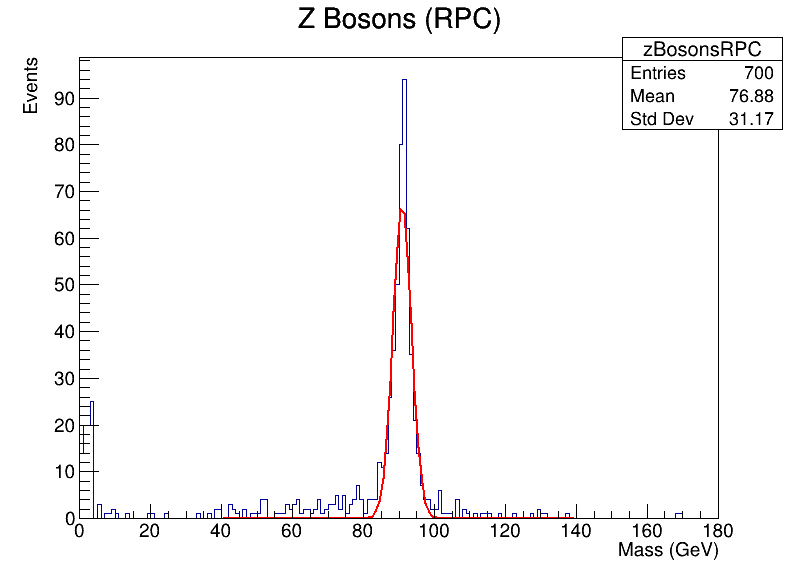
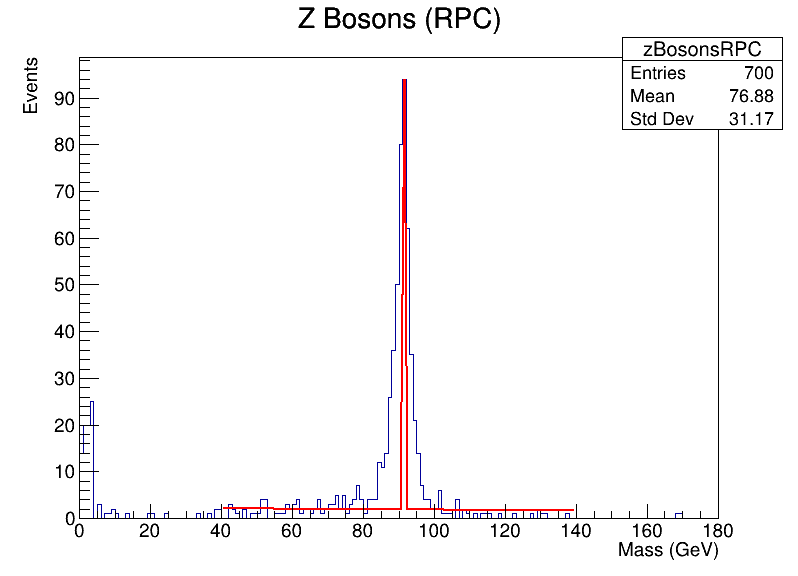
hist add exp

Changed region(s): [[0.2707, 0.1562, 0.7218, 0.9062]]

diff --git a/Analysis/drawHistograms.C b/Analysis/drawHistograms.C
@@ -7,7 +7,7 @@
 #include "TCanvas.h"
 
 void drawHistograms() {
-    TFile *file = new TFile("data.root", "READ");
+    TFile *file = new TFile("data1.root", "READ");
     if (!file || file->IsZombie()) {
         std::cerr << "Error opening file" << std::endl;
         return;
@@ -50,24 +50,46 @@ void drawHistograms() {
 
     TCanvas *c1 = new TCanvas("c1", "Histograms", 800, 600);
     h_zBosonsGlobal->Draw();
-    TF1 *fitFuncGlobal = new TF1("fitFuncGlobal", "gaus", 40, 140);
+    TF1 *fitFuncGlobal = new TF1("fitFuncGlobal", "gaus(0) + [3]*exp(-[4]*x)", 40, 140);
+    
+    // Set parameter limits for Global fit
+    fitFuncGlobal->SetParLimits(0, 0, 1000);  // Gaussian amplitude
+    fitFuncGlobal->SetParLimits(1, 80, 100);  // Gaussian mean
+    fitFuncGlobal->SetParLimits(2, 0, 5);    // Gaussian sigma
+    fitFuncGlobal->SetParLimits(3, 0, 1000);  // Exponential amplitude
+    fitFuncGlobal->SetParLimits(4, 0, 1);     // Exponential decay constant
+    
     h_zBosonsGlobal->Fit(fitFuncGlobal, "R");
     c1->SaveAs("zBosonsGlobal.png");
 
     TCanvas *c2 = new TCanvas("c2", "Histograms", 800, 600);
     h_zBosonsRPC->Draw();
-    TF1 *fitFuncRPC = new TF1("fitFuncRPC", "gaus", 40, 140);
+    TF1 *fitFuncRPC = new TF1("fitFuncRPC", "gaus(0) + [3]*exp(-[4]*x)", 40, 140);
+    
+    // Set parameter limits for RPC fit
+    fitFuncRPC->SetParLimits(0, 0, 1000);  // Gaussian amplitude
+    fitFuncRPC->SetParLimits(1, 80, 100);  // Gaussian mean
+    fitFuncRPC->SetParLimits(2, 0, 5);    // Gaussian sigma
+    fitFuncRPC->SetParLimits(3, 0, 1000);  // Exponential amplitude
+    fitFuncRPC->SetParLimits(4, 0, 1);     // Exponential decay constant
+    
     h_zBosonsRPC->Fit(fitFuncRPC, "R");
     c2->SaveAs("zBosonsRPC.png");
 
     std::ofstream logFile("fit_results.txt");
     if (logFile.is_open()) {
         logFile << "Global Fit Parameters:\n"
-                << "Mean: " << fitFuncGlobal->GetParameter(1) << "\n"
-                << "Width: " << fitFuncGlobal->GetParameter(2) << "\n";
+                << "Gaussian Amplitude: " << fitFuncGlobal->GetParameter(0) << "\n"
+                << "Gaussian Mean: " << fitFuncGlobal->GetParameter(1) << "\n"
+                << "Gaussian Sigma: " << fitFuncGlobal->GetParameter(2) << "\n"
+                << "Exponential Amplitude: " << fitFuncGlobal->GetParameter(3) << "\n"
+                << "Exponential Decay: " << fitFuncGlobal->GetParameter(4) << "\n";
         logFile << "RPC Fit Parameters:\n"
-                << "Mean: " << fitFuncRPC->GetParameter(1) << "\n"
-                << "Width: " << fitFuncRPC->GetParameter(2) << "\n";
+                << "Gaussian Amplitude: " << fitFuncRPC->GetParameter(0) << "\n"
+                << "Gaussian Mean: " << fitFuncRPC->GetParameter(1) << "\n"
+                << "Gaussian Sigma: " << fitFuncRPC->GetParameter(2) << "\n"
+                << "Exponential Amplitude: " << fitFuncRPC->GetParameter(3) << "\n"
+                << "Exponential Decay: " << fitFuncRPC->GetParameter(4) << "\n";
         logFile.close();
     } else {
         std::cerr << "Unable to open log file for writing fit results." << std::endl;

diff --git a/Analysis/plugins/Analysis.cc b/Analysis/plugins/Analysis.cc
@@ -28,11 +28,15 @@ private:
   mutable TFile* outputFile;
   mutable TTree* treeGlobal;
   mutable TTree* treeRPC;
+  mutable TTree* treenotRPC;
   
   mutable std::vector<reco::Muon> globalMuons; //isglobal
   mutable std::vector<reco::Muon> rpcMuons;    //isglobal & isRPC
+  mutable std::vector<reco::Muon> notrpcMuons; //isglobal & notRPC
+  
   mutable double zBosonMassGlobal;
   mutable double zBosonMassRPC;
+  mutable double zBosonMassnotRPC;
 };
 
 Analysis::Analysis(const edm::ParameterSet& iConfig)
@@ -58,6 +62,9 @@ void Analysis::analyze(const edm::StreamID, const edm::Event& iEvent, const edm:
       globalMuons.push_back(muon);
       if (muon.isRPCMuon()) {
         rpcMuons.push_back(muon);
+      }
+      else{
+        notrpcMuons.push_back(muon); //add not rpc muons
       }
     }
   }
@@ -86,6 +93,7 @@ void Analysis::analyze(const edm::StreamID, const edm::Event& iEvent, const edm:
 
   zBosonMassGlobal = reconstructZBoson(globalMuons);
   zBosonMassRPC = reconstructZBoson(rpcMuons);
+  zBosonMassnotRPC = reconstructZBoson(notrpcMuons);
 
   if (zBosonMassGlobal > 0.0) {
     treeGlobal->Fill();
@@ -94,20 +102,27 @@ void Analysis::analyze(const edm::StreamID, const edm::Event& iEvent, const edm:
   if (zBosonMassRPC > 0.0) {
     treeRPC->Fill();
   }
+  
+  if (zBosonMassnotRPC > 0.0) {
+    treenotRPC->Fill();
+  }  
 }
 
 void Analysis::beginJob() {
     outputFile = new TFile("data.root", "RECREATE");
     treeGlobal = new TTree("GlobalMuons", "Global Muons");
     treeRPC = new TTree("RPCMuons", "RPC Muons");
+    treenotRPC = new TTree("notRPCMuons", "G0lboal & notRPC Muons");
     treeGlobal->Branch("zBosonMass", &zBosonMassGlobal, "zBosonMass/D");
     treeRPC->Branch("zBosonMass", &zBosonMassRPC, "zBosonMass/D");
+    treenotRPC->Branch("zBosonMass", &zBosonMassnotRPC, "zBosonMass/D");
 }
 
 void Analysis::endJob() {
     outputFile->Write();
     delete treeGlobal;
     delete treeRPC;
+    delete treenoRPC;
     outputFile->Close();
     delete outputFile;
 }

diff --git a/Analysis/conf.py b/Analysis/conf.py
@@ -9,9 +9,9 @@ process.maxEvents = cms.untracked.PSet(input = cms.untracked.int32(-1))
 process.source = cms.Source("PoolSource",
     fileNames = cms.untracked.vstring(
 #        'file:///pnfs/knu.ac.kr/data/cms/store/relval/CMSSW_14_0_0/DoubleMuon/AOD/140X_dataRun3_v3_STD_2022_Data_RelVal_2022B-v1/2580000/0e19b0b1-5b63-4730-98c1-7b416e1d620f.root',
-        "root://210.117.210.34//home/dndus0107/CMSSW_14_0_0/DoubleMuon/AOD/140X_dataRun3_v3_STD_2022_Data_RelVal_2022B-v1/2580000/0e19b0b1-5b63-4730-98c1-7b416e1d620f.root",
-        "root://210.117.210.34//home/dndus0107/CMSSW_14_0_0/DoubleMuon/AOD/140X_dataRun3_v3_STD_2022_Data_RelVal_2022B-v1/2580000/43d9dc02-7182-4559-98da-934918643eae.root",
-        "root://210.117.210.34//home/dndus0107/CMSSW_14_0_0/DoubleMuon/AOD/140X_dataRun3_v3_STD_2022_Data_RelVal_2022B-v1/2580000/7c61e272-d81c-4e56-acdf-0d492284a957.root"
+        'root://210.117.210.34//home/dndus0107/CMSSW_14_0_0/DoubleMuon/AOD/140X_dataRun3_v3_STD_2022_Data_RelVal_2022B-v1/2580000/0e19b0b1-5b63-4730-98c1-7b416e1d620f.root',
+        'root://210.117.210.34//home/dndus0107/CMSSW_14_0_0/DoubleMuon/AOD/140X_dataRun3_v3_STD_2022_Data_RelVal_2022B-v1/2580000/43d9dc02-7182-4559-98da-934918643eae.root',
+        'root://210.117.210.34//home/dndus0107/CMSSW_14_0_0/DoubleMuon/AOD/140X_dataRun3_v3_STD_2022_Data_RelVal_2022B-v1/2580000/7c61e272-d81c-4e56-acdf-0d492284a957.root'
         
     )
 )
